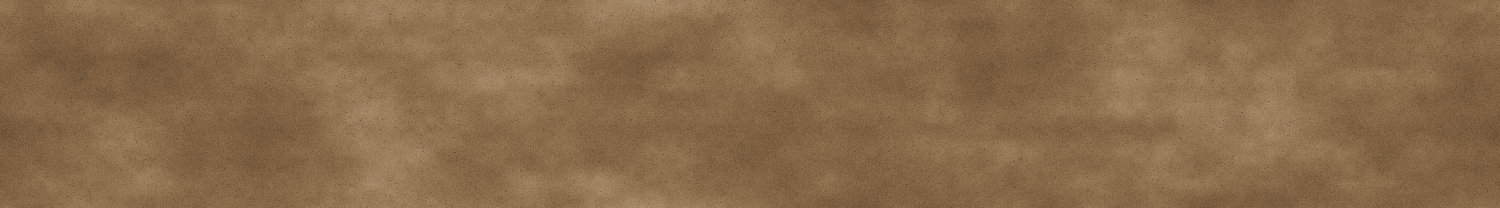
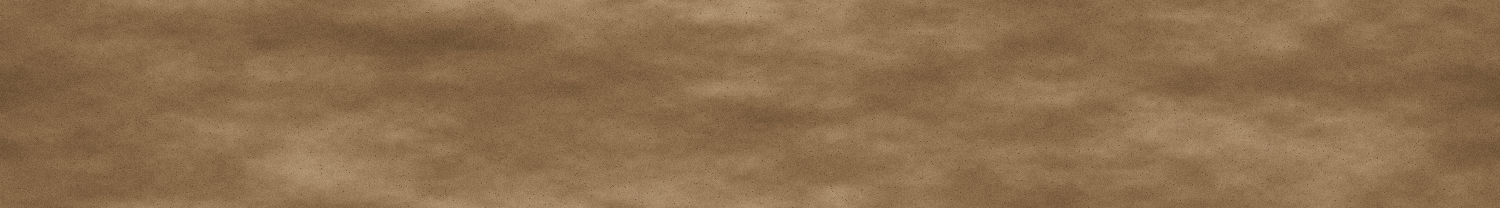
ダート: 走りがぎこちなかった（地面が平坦すぎた）／砂煙を出す
★オーナー評 2 件（2026-08-29）:
  ①「走り方が芝の時と違ってぎこちない」  ②「ダートでは砂煙が必要」

【① 原因 — ★私が焼いたタイルが進行方向に平坦すぎた】
★見た目の速さは**画面上の地面の流れ**で決まる（既知）。
★地面が平坦だと**脚だけ動いて進んでいないように見える**。

実測（進行方向の輝度のばらつき）:
  芝          sd 4.24   最強の周期 2.311m ごと（振幅 2.38）
  ★ダート(旧) sd 1.68   ★最強の周期 0.385m ごと（振幅 1.89）
  ★ダート(新) sd 4.08   最強の周期 2.311m ごと（振幅 5.47）

⚠ ★旧タイルの 0.385m 周期は、私が入れた `sin` の整地の筋。
   ★16m/s では**毎秒 41 本**流れ、模様ではなく**ちらつき**になる。
→ ★筋は周期を長く（約 0.8〜2.3m）し、位置を揺らして規則性を消した。
→ ★進行方向の大きな濃淡（湿り／乾き）を主力にして、芝の sd に寄せた。

【② 砂煙】
★機構は前からあったが、★**良ダートで強さ 0.22・蹴り出しの 5 コマだけ**だった。
→ ★**尾を引く砂煙**を足した（ダートのときだけ・9 個の煙が連続して後方へ流れる）。

⚠ ★1 回目は**何も見えなかった**。
   ★砂煙を `kickupColor`（#796047＝地面と同じ茶）で描いていたため、
   ★**地面に溶けていた**（不透明度を 1 にすると巨大な塗りつぶしが出たので、描いてはいた）。
→ ★`dustColor` を新設（#cdb494）。★空中の砂ぼこりは**地面より明るい**。

★芝は 1 画素も変えていない（同じ場面を撮って**完全に同一**であることを確認）。
★`Math.random()` を使っていない（散らしは枠番と番号から・憲法 4）。

★ASSET_VERSION 56（タイルを焼き直したため）。

検証: npm test 123 ファイル / 1215 件 PASS（exit 0）／ npm run typecheck クリーン（exit 0）

Claude-Session: https://claude.ai/code/session_01TDwnuoUG3UaNtW8CYJ2Vcd

diff --git a/packages/render/src/perspective-draw.ts b/packages/render/src/perspective-draw.ts
@@ -692,7 +692,17 @@ export function drawPerspectiveHorses<TImage>(
     readonly trackEffect?: {
       readonly surface: RenderSurface;
       readonly condition: RenderTrackCondition;
+      /** ★蹴が蹴り上げる**土塊・苝片**の色。★地面と同じ系統でよい */
       readonly color: string;
+      /**
+       * ★**舞い上がった砂煙の色**（2026-08-29）。★省略すると `color` を使います。
+       *
+       * ⚠ ★砂煙を `color`（地面と同じ褐）で描くと、★**地面に溶けて見えません**。
+       *    ★実際に 1 回目は `#796047` で描いて、★**何も見えません**でした
+       *    （不透明度を 1 にすると巨大な塗りつぶしが出たので、描いてはいた）。
+       * ★空中の砂ばこりは**地面より明るい**。★明るい色を渡すこと。
+       */
+      readonly dustColor?: string | undefined;
     } | undefined;
     /**
      * ★**被写体ブラー**（参考映像 1.4／設計 1-2）
@@ -886,6 +896,48 @@ export function drawPerspectiveHorses<TImage>(
     }
     const kickup = opts.trackEffect === undefined ? 0
       : trackKickupIntensity(opts.trackEffect.surface, opts.trackEffect.condition);
+    /**
+     * ★**ダートの砂煙**（2026-08-29・オーナー要望「ダートでは砂煙が必要」）
+     *
+     * ⚠ ★下の既存の砊煙は**蚊け出しの 5 コマだけ**で、★しかも強さが
+     *    ★良ダートで **0.22**。★地面の色が変わっただけに見えました。
+     * ★本物のダートは、★**馬の後ろに尾を引いて残り**ます。それを足します。
+     *
+     * 【★苝には入れません】
+     *   ★苝の見え方は既にオーナー承認済みです。★ここで変えてはいけません。
+     *
+     * 【★決定論】
+     *   ★`Math.random()` を使いません（憲法 4）。★散らしは枠番と番号から決めます。
+     *   ★位相はコマ番号（＝進んだ距離）から決まり、★**途切れずに続きます**。
+     */
+    if (opts.trackEffect !== undefined && opts.trackEffect.surface === 'dirt' && kickup > 0) {
+      const cycle = 8;
+      const phase = (((frameIndex % cycle) + cycle) % cycle) / cycle;
+      /** ★尾を引く長さ（m）。★長すぎると後続が見えなくなります */
+      const PLUME_M = 6.0;
+      const PUFFS = 9;
+      for (let i = 0; i < PUFFS; i += 1) {
+        /** ★古さ（0=出たばかり … 1=消える）。★位相を足して連続にする */
+        const age = (i + phase) / PUFFS;
+        const jig = ((d.h.gate * 13 + i * 7) % 11) / 11;
+        const back = 0.55 + age * PLUME_M;
+        const rise = 0.20 + age * 0.85;
+        const lateral = (jig - 0.5) * (0.45 + age * 1.30);
+        const q = P(d.s - back, d.h.w + lateral);
+        if (q.depth <= 2) continue;
+        /** ⚠ ★大きすぎると**砂煙ではなく壁**になります（不透明度 1 で確かめ済み） */
+        const rx = q.pxPerM * (0.20 + age * 0.52 + jig * 0.10);
+        const ry = rx * (0.52 + jig * 0.16);
+        /** ★消え方は後半ほど早く（尾が鑑を引かないように） */
+        const fade = (1 - age) * (1 - age);
+        ctx.globalAlpha = Math.min(0.42, 0.46 * fade * Math.min(1, kickup * 4.5));
+        ctx.fillStyle = opts.trackEffect.dustColor ?? opts.trackEffect.color;
+        ctx.beginPath();
+        ctx.ellipse(q.x, q.y - rise * q.pxPerM, rx, ry, 0, 0, Math.PI * 2);
+        ctx.fill();
+      }
+      ctx.globalAlpha = 1;
+    }
     if (kickup > 0) {
       /**
        * ★**芝片・土煙**は後肢が接地して蹴る局面でだけ出る（8 コマ: 06/07 が後肢接地・蹴り出し、08 で離地）。

diff --git a/apps/web/src/app/race/page.tsx b/apps/web/src/app/race/page.tsx
@@ -130,7 +130,7 @@ function drawRendererBadge(ctx: CanvasRenderingContext2D, kind: RendererKind, st
 }
 const STRATS: readonly Strategy[] = ['nige', 'senko', 'sashi', 'oikomi'];
 /** ★素材を足したら必ず上げる。★`manifest.json` の中身を変えたときも（古いものがキャッシュされる） */
-const ASSET_VERSION = '55';
+const ASSET_VERSION = '56';
 /**
  * ★コマごとの持ち上げ量。**単位は「基準画布（高さ 1536px）での px」**。
  *
@@ -2055,6 +2055,12 @@ export default function RacePage(): React.JSX.Element {
         surface,
         condition: trackCondition,
         kickupColor: surface === 'dirt' ? '#796047' : '#738b43',
+        /**
+         * ★**舞い上がった砂煙の色**（2026-08-29）。
+         *   ⚠ ★地面と同じ褐（`#796047`）で描くと★**地面に溶けて見えません**。
+         *   ★`palette.json` の `dirt-0`（#b09472）よりさらに明るい砂ばこりの色。
+         */
+        dustColor: surface === 'dirt' ? '#cdb494' : undefined,
         /**
          * ★**内側の帯を苝に反転する**（`/race?infield=turf`）。
          *

diff --git a/packages/render/src/broadcast-v2-scene.ts b/packages/render/src/broadcast-v2-scene.ts
@@ -433,6 +433,8 @@ export function drawBroadcastV2Scene<TImage>(
     readonly surface: RenderSurface;
     readonly condition: RenderTrackCondition;
     readonly kickupColor: string;
+    /** ★舞い上がった砂煙の色（2026-08-29）。★地面より明るくすること */
+    readonly dustColor?: string | undefined;
     /**
      * ★**内側の帯を逆にする**（ダート戦で内回りを苝に見せる）。
      *   ★描画だけ。★裁定 §6-3 の [EYES]。採否はオーナー判断。
@@ -652,7 +654,12 @@ export function drawBroadcastV2Scene<TImage>(
     coatFilterOf: opts.coatFilterOf,
     frameRoleOf: opts.frameRoleOf,
     distanceMeter: course.distance,
-    trackEffect: { surface: opts.surface, condition: opts.condition, color: opts.kickupColor },
+    trackEffect: {
+      surface: opts.surface,
+      condition: opts.condition,
+      color: opts.kickupColor,
+      ...(opts.dustColor === undefined ? {} : { dustColor: opts.dustColor }),
+    },
     motionBlur: opts.motionBlur,
   });
   // ★手前側のラチ（馬の脚が突き抜けないように、馬のあとで描く）
